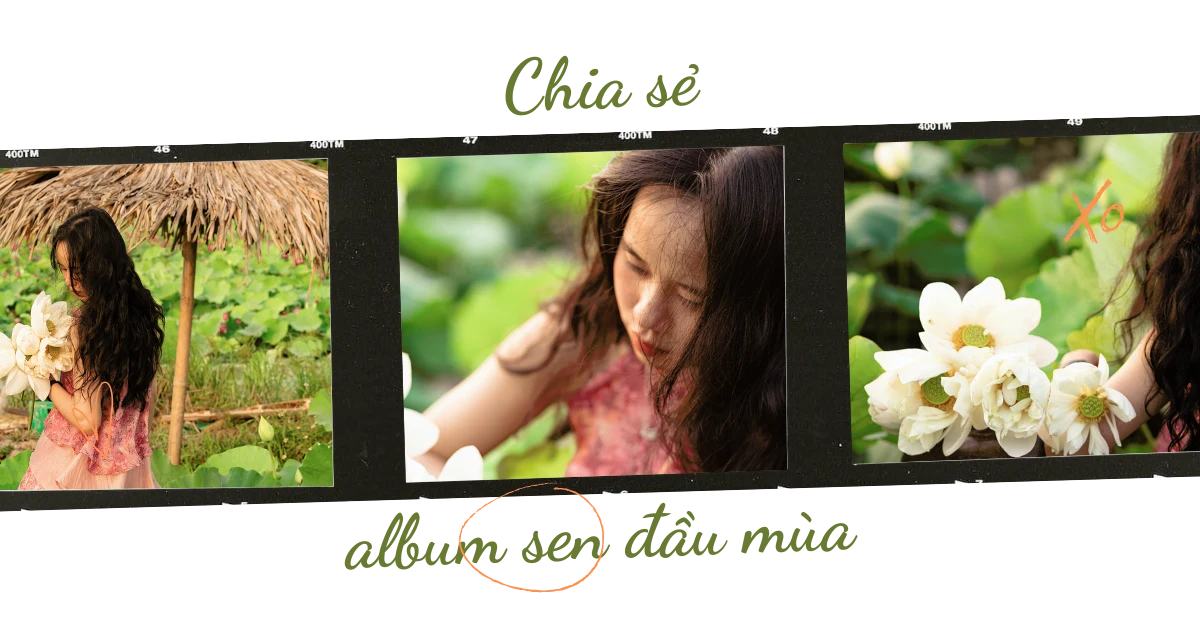
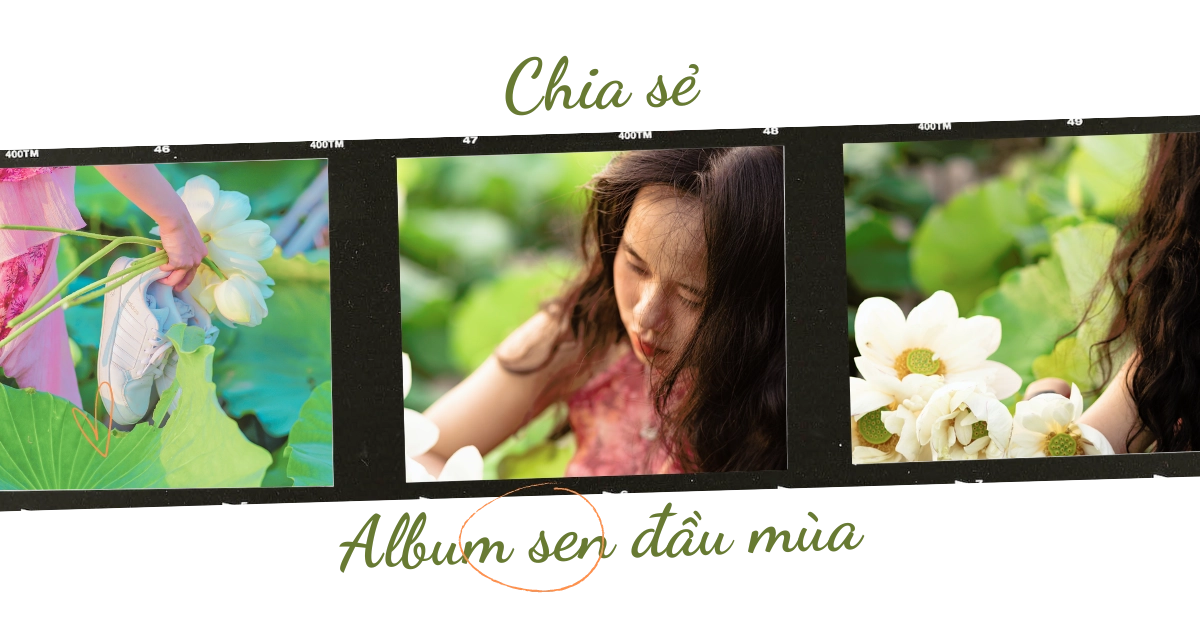
m

Changed region(s): [[0.6783, 0.2121, 1.0, 0.7576], [0.0, 0.2424, 0.2775, 0.7879], [0.2775, 0.7879, 0.74, 0.9091]]

diff --git a/_posts/2023/nhiep-anh/kien-thuc/2023-03-19-abum-chup-sen.md b/_posts/2023/nhiep-anh/kien-thuc/2023-03-19-abum-chup-sen.md
@@ -25,18 +25,15 @@ Sen bắt đầu rộ bông vào những ngày cuối tháng 5 đầu tháng 6. 
 
 <iframe src="https://assets.pinterest.com/ext/embed.html?id=610167449536697685" height="645" width="345" frameborder="0" scrolling="no" ></iframe>
 
-+ Tìm địa điểm picnic : Lựa chọn địa điểm picnic thì tương tối đơn giản, nhưng để lên ảnh đẹp các bạn nên chọn những nơi có bãi cỏ xanh và dài, đặc biệt nên bên cạnh hồ nước hoặc con sông để để khi lên ảnh giúp bức ảnh có chiều sâu hơn rất nhiều.
++ Tìm địa điểm: Đầm Sen Quán Gió Lập Loan - Thanh Oai Hà Nội
++ Thời điểm để chụp : Vì mùa hè trời sẽ rất nắngbạn hãy chụp trước khi mặt trời lặn 30 phút, - điều mà mình luôn nhắc nhở trong mọi bài viết. -> ánh sáng dịu nhẹ khiến bạn trở nên mềm mại.
++ Về Trang Phục : Trắng, hồng, xanh để trông nhẹ nhàng mát mẻ giữa không khí mùa hè oi bức đang đến.
++ Về phụ kiện : Do chụp với sen, nên nếu có thể hãy mua sen ngay ở đó, cầm quạt hoặc một thứ gì đó 🧐.
++ Về Tạo Dáng :  Một số dáng gợi ý dành cho bạn khi chụp ảnh với sen đó là: Chụp góc nghiêng 90 độ tóc xõa dài ra hướng mặt theo hướng gió để gió thổi tóc bồng bềnh, hoặc vẫn là góc nghiêng 90 độ nhưng kết hợp cùng với phụ kiện.
 
-+ Thời điểm để chụp : Vì mùa hè trời sẽ rất nắng nên thời điểm chụp thích hợp nhất là lúc trước hoàng hôn tầm 30 phút, lúc này ánh sáng rất dịu giúp các bức ảnh trở nên mềm mại và có những hiệu ứng rất đẹp.
-
-+ Về Trang Phục : Các bạn nữ có thể chọn một chiếc váy trễ vai quyến rũ màu xanh mint hoặc trắng để trông nhẹ nhàng mát mẻ giữa không khí mùa hè oi bức đang đến.
-
-+ Về phụ kiện : Các bạn bắt buộc phải có một tấm khăn trải để ngồi, các loại trái cây (dưa hấu, cam, dứa..) và những phụ kiện xinh xắn nhưu chiếc máy ảnh film, thú bông đáng yêu, hộp quà.. để giúp cho bức ảnh trở nên sinh động hơn.
-
-+ Về Tạo Dáng :  Một số dáng gợi ý dành cho các nàng khi chụp ảnh picnic đó là: Chụp góc nghiêng 90 độ tóc xõa dài ra hướng mặt theo hướng gió để gió thổi tóc bồng bềnh, hoặc vẫn là góc nghiêng 90 độ nhưng kết hợp cùng với phụ kiện. Hoặc chụp lại những khoảnh khắc vui tươi hồn nhiên như khi đang ăn trái cây, đi dạo quanh bãi cỏ…
-
-Album Ảnh Dã Ngoại
-Bộ ảnh concept picnic dưới đây mình bắt đầu chụp từ 5h chiều, chụp được tầm 30 phút thì có hoàng hôn nên ánh sáng khá đẹp. Các bạn có thể xem một số cách tạo dáng gợi ý ở dưới dây để có cho mình những bộ hình picnic ưng ý nhé.
+### Album Ảnh sen đầu mùa
+Buổi chụp thực sự bắt đầu chụp từ 5h chiều, có hoàng hôn nên ánh sáng khá đẹp.
+Các bạn có thể xem một số cách tạo dáng gợi ý ở dưới dây để có cho mình những bộ hình với sen ưng ý nhé.
 
 <div class="content" style="text-align:center; ">
 <a href="https://imgur.com/44v9tze"><img src="https://i.imgur.com/44v9tze.jpg" title="source: imgur.com" /></a><br>
@@ -44,11 +41,11 @@ Bộ ảnh concept picnic dưới đây mình bắt đầu chụp từ 5h chiề
 <a href="https://imgur.com/UtwLIOi"><img src="https://i.imgur.com/UtwLIOi.jpg" title="source: imgur.com" /></a><br>
 <a href="https://imgur.com/S6Ma3LU"><img src="https://i.imgur.com/S6Ma3LU.jpg" title="source: imgur.com" /></a><br>
 <a href="https://imgur.com/dIuRELa"><img src="https://i.imgur.com/dIuRELa.jpg" title="source: imgur.com" /></a><br><a href="https://imgur.com/2GssHpl"><img src="https://i.imgur.com/2GssHpl.jpg" title="source: imgur.com" /></a><br><a href="https://imgur.com/VfC49iM"><img src="https://i.imgur.com/VfC49iM.jpg" title="source: imgur.com" /></a><br><a href="https://imgur.com/G5bcYmv"><img src="https://i.imgur.com/G5bcYmv.jpg" title="source: imgur.com" /></a>
-
-
 </div>
 
+Nếu bạn yêu thích chụp hình với sen thì liên hệ với tụi mình để có được những bộ ảnh sen ưng ý nha.
 
+Ngoài ra Xóm nghiện ngập và anhhangxom còn có rất nhiều dịch vụ khác như chụp ảnh kỷ yếu,chụp ảnh áo dài, chụp ảnh cúc họa mi,chụp ảnh ngoại cảnh, chụp ảnh tết, chụp ảnh gia đình … các bạn liên hệ để biết thêm các thông tin chi tiết nha.
 
 
 
